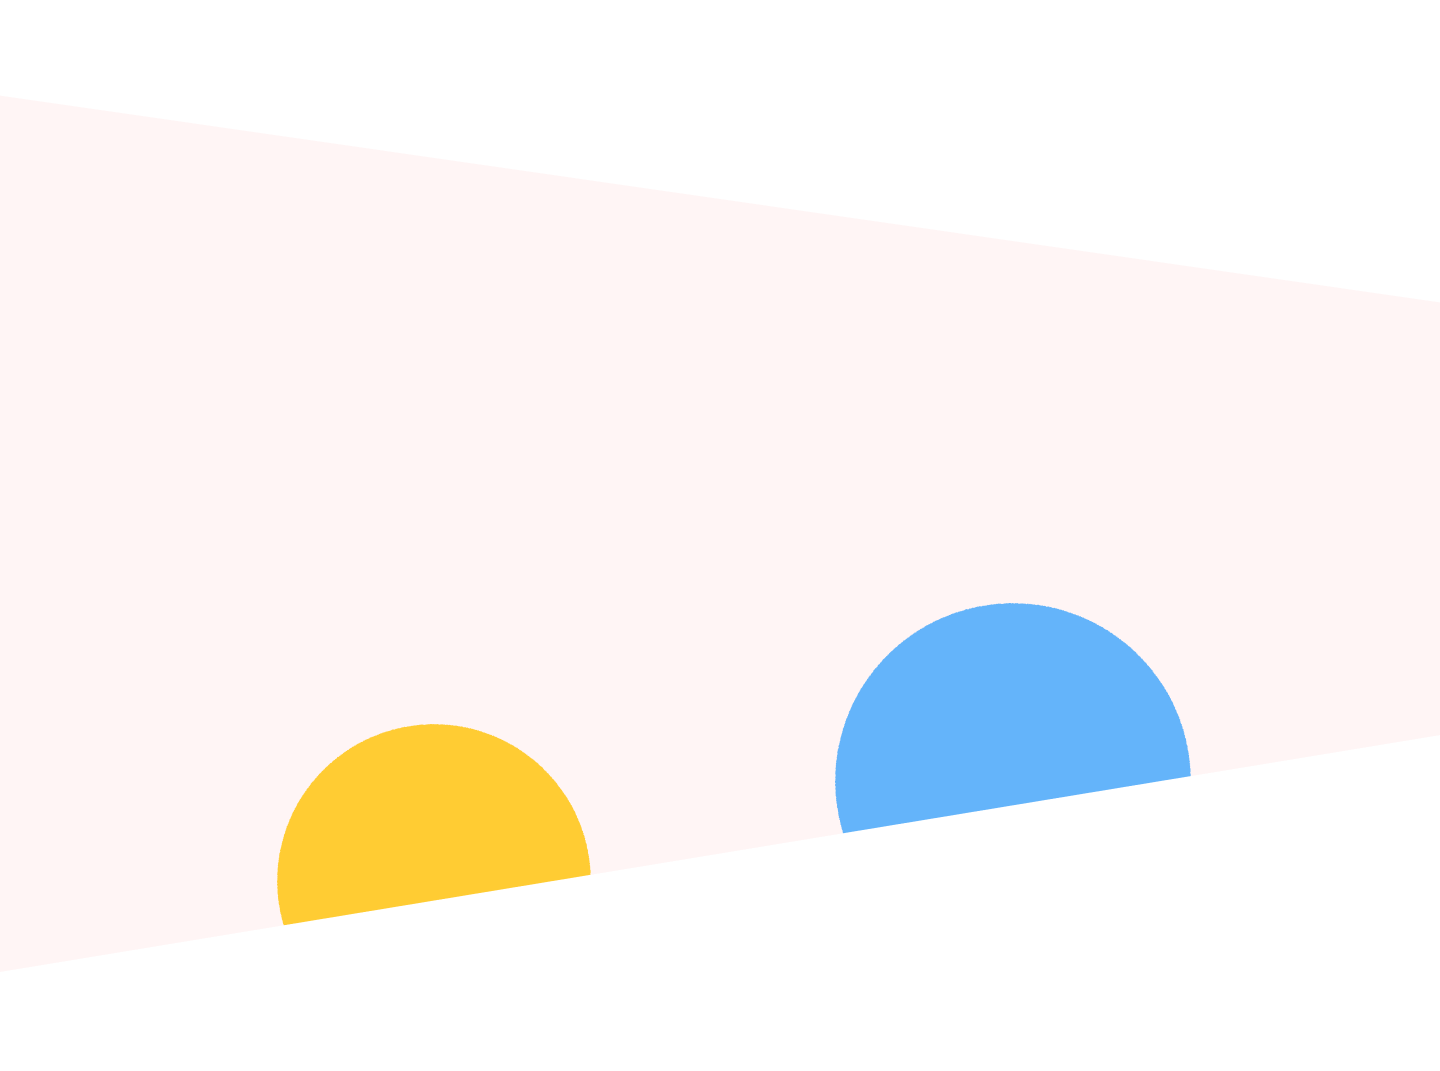
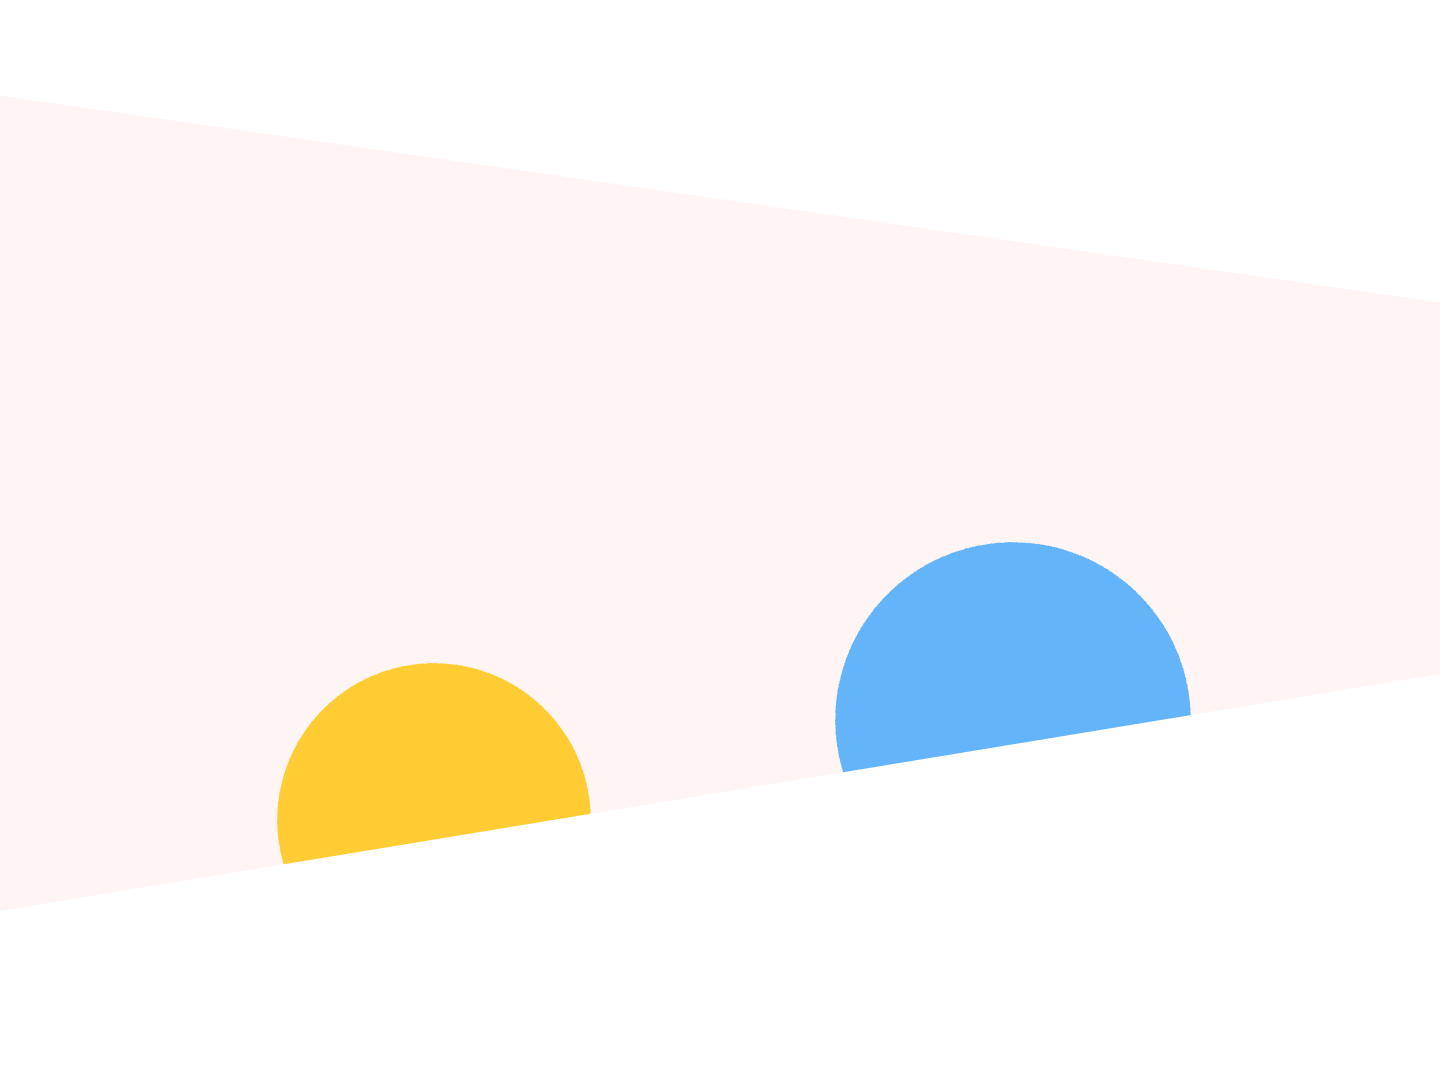
Adjusted margins & padding for desktop

Changed region(s): [[0.5625, 0.493, 0.8438, 0.7703], [0.1875, 0.6162, 0.4062, 0.8627]]

diff --git a/css/main.css b/css/main.css
@@ -588,8 +588,7 @@ footer .footer-bg-element {
         border-radius: 5px;
         border: 1px solid #0688fa;
         padding: 15px 30px;
-        text-align: center;
-        width: 100%; }
+        text-align: center; }
         header .content-wrapper nav .header-button:hover {
           background: none;
           border: 1px solid #0688fa;
@@ -601,6 +600,7 @@ footer .footer-bg-element {
 
   /* Hero */
   #hero .content-wrapper aside .hero-image {
+    background-size: 105%;
     border-radius: 5px; }
   #hero .hero-content .heading {
     padding: 0;
@@ -609,7 +609,6 @@ footer .footer-bg-element {
       font-size: 3.625rem;
       line-height: 3.875rem; }
   #hero .hero-content article {
-    margin-top: 0;
     width: 45%; }
 
   /* Our Culture */
@@ -624,6 +623,8 @@ footer .footer-bg-element {
     width: 60%; }
 
   /* Offices */
+  #offices::before {
+    top: 60px; }
   #offices .office-locations {
     padding-bottom: 50px;
     justify-content: space-evenly; }
@@ -648,10 +649,12 @@ footer .footer-bg-element {
       padding: 10px 90px; }
 
   /* Footer */
-  footer .footer-content article {
-    width: 15%; }
-  footer .footer-content .divider {
-    display: none; }
+  footer .footer-content {
+    padding-top: 25px; }
+    footer .footer-content article {
+      width: 15%; }
+    footer .footer-content .divider {
+      display: none; }
   footer .footer-social-media::before {
     height: 270px;
     margin-left: 117px; }

diff --git a/css/main.scss b/css/main.scss
@@ -733,7 +733,6 @@ footer {
         border: 1px solid $primary-blue;
         padding: 15px 30px;
         text-align: center;
-        width: 100%;
         &:hover {
           background: none;
           border: 1px solid $primary-blue;
@@ -752,6 +751,7 @@ footer {
   #hero {
     .content-wrapper {
       aside .hero-image {
+        background-size: 105%;
         border-radius: $radius;
       }
     }
@@ -765,7 +765,6 @@ footer {
         }
       }
       article {
-        margin-top: 0;
         width: 45%;
       }
     }
@@ -788,6 +787,9 @@ footer {
   }
   /* Offices */
   #offices {
+    &::before {
+      top: 60px;
+    }
     .office-locations {
       padding-bottom: 50px;
       justify-content: space-evenly;
@@ -821,6 +823,7 @@ footer {
   /* Footer */
   footer {
     .footer-content {
+      padding-top: 25px;
       article {
         width: 15%;
       }
